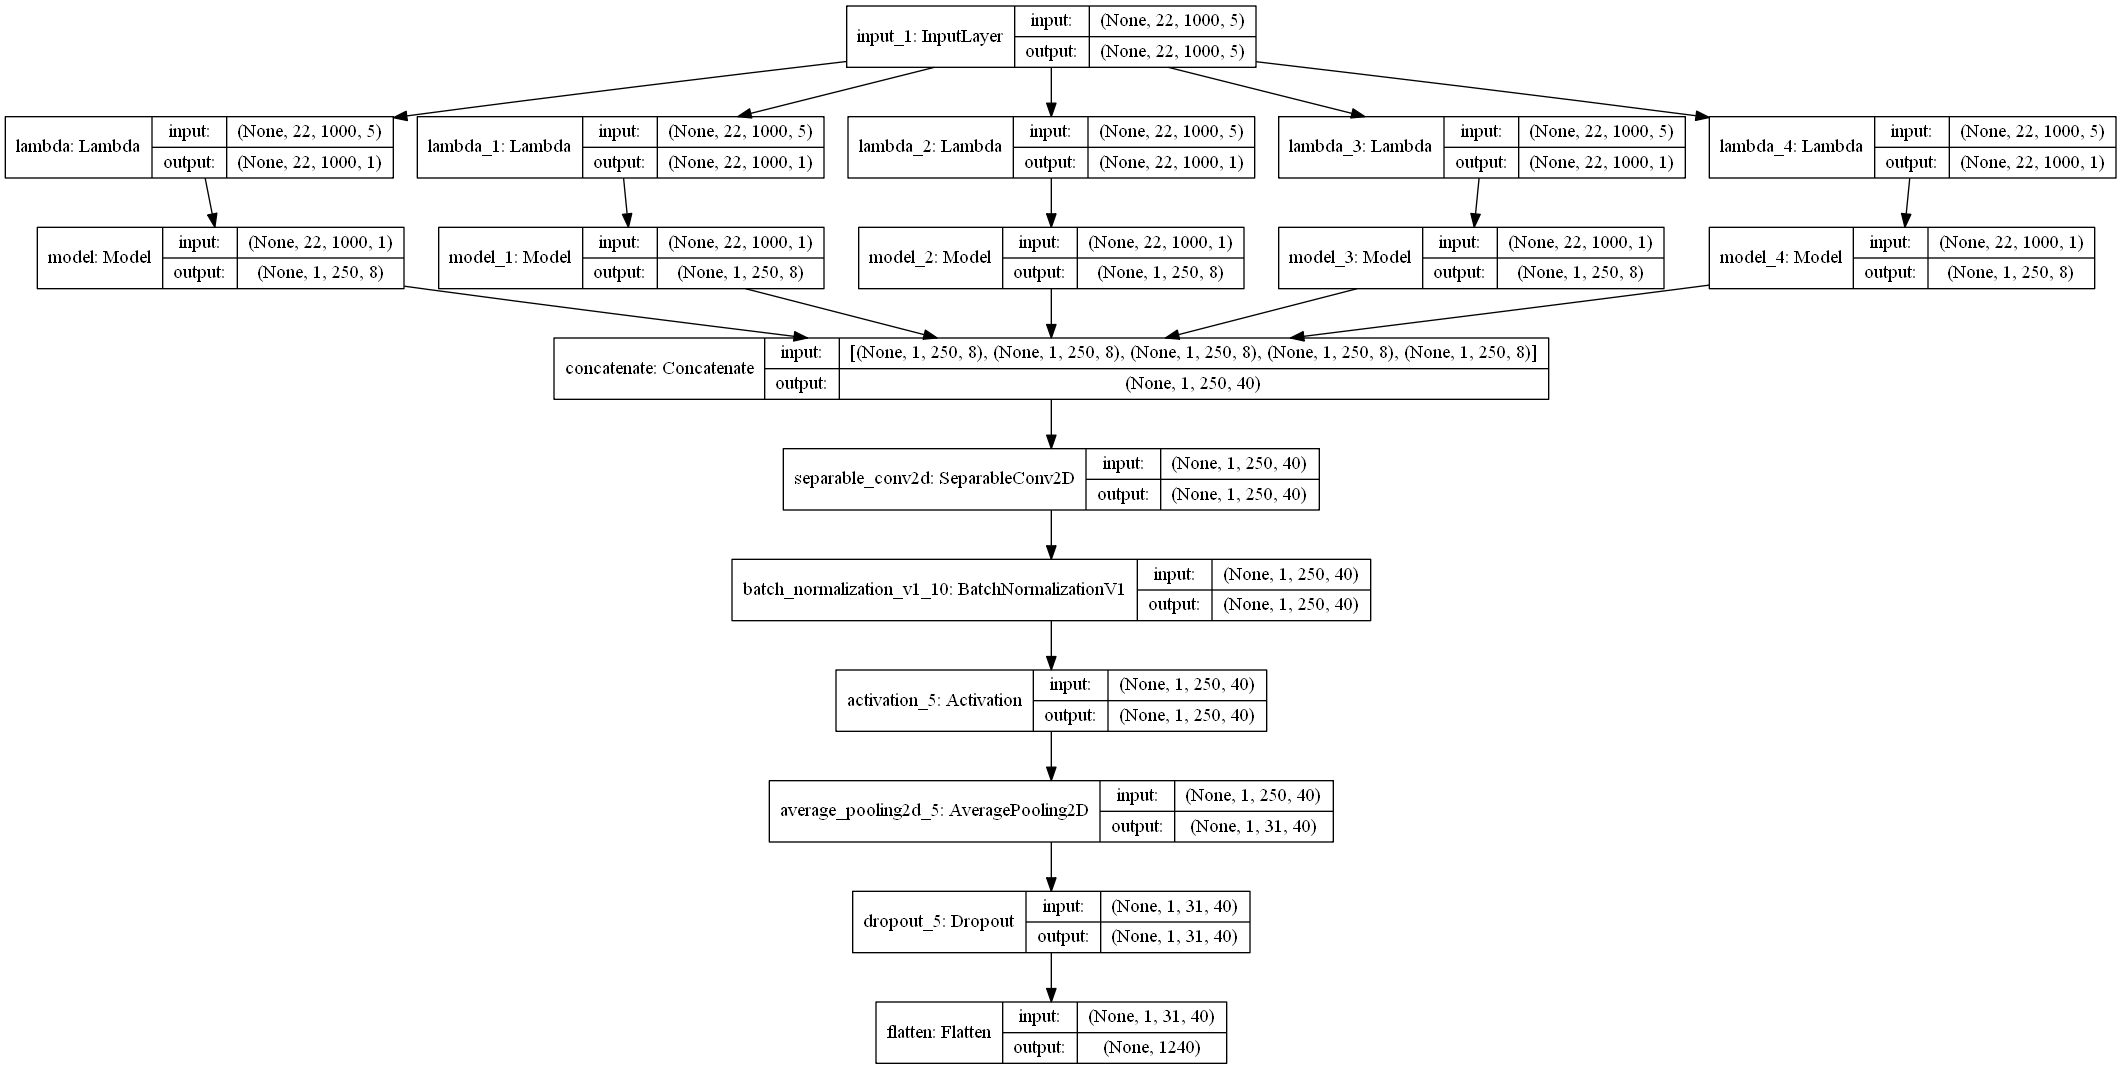
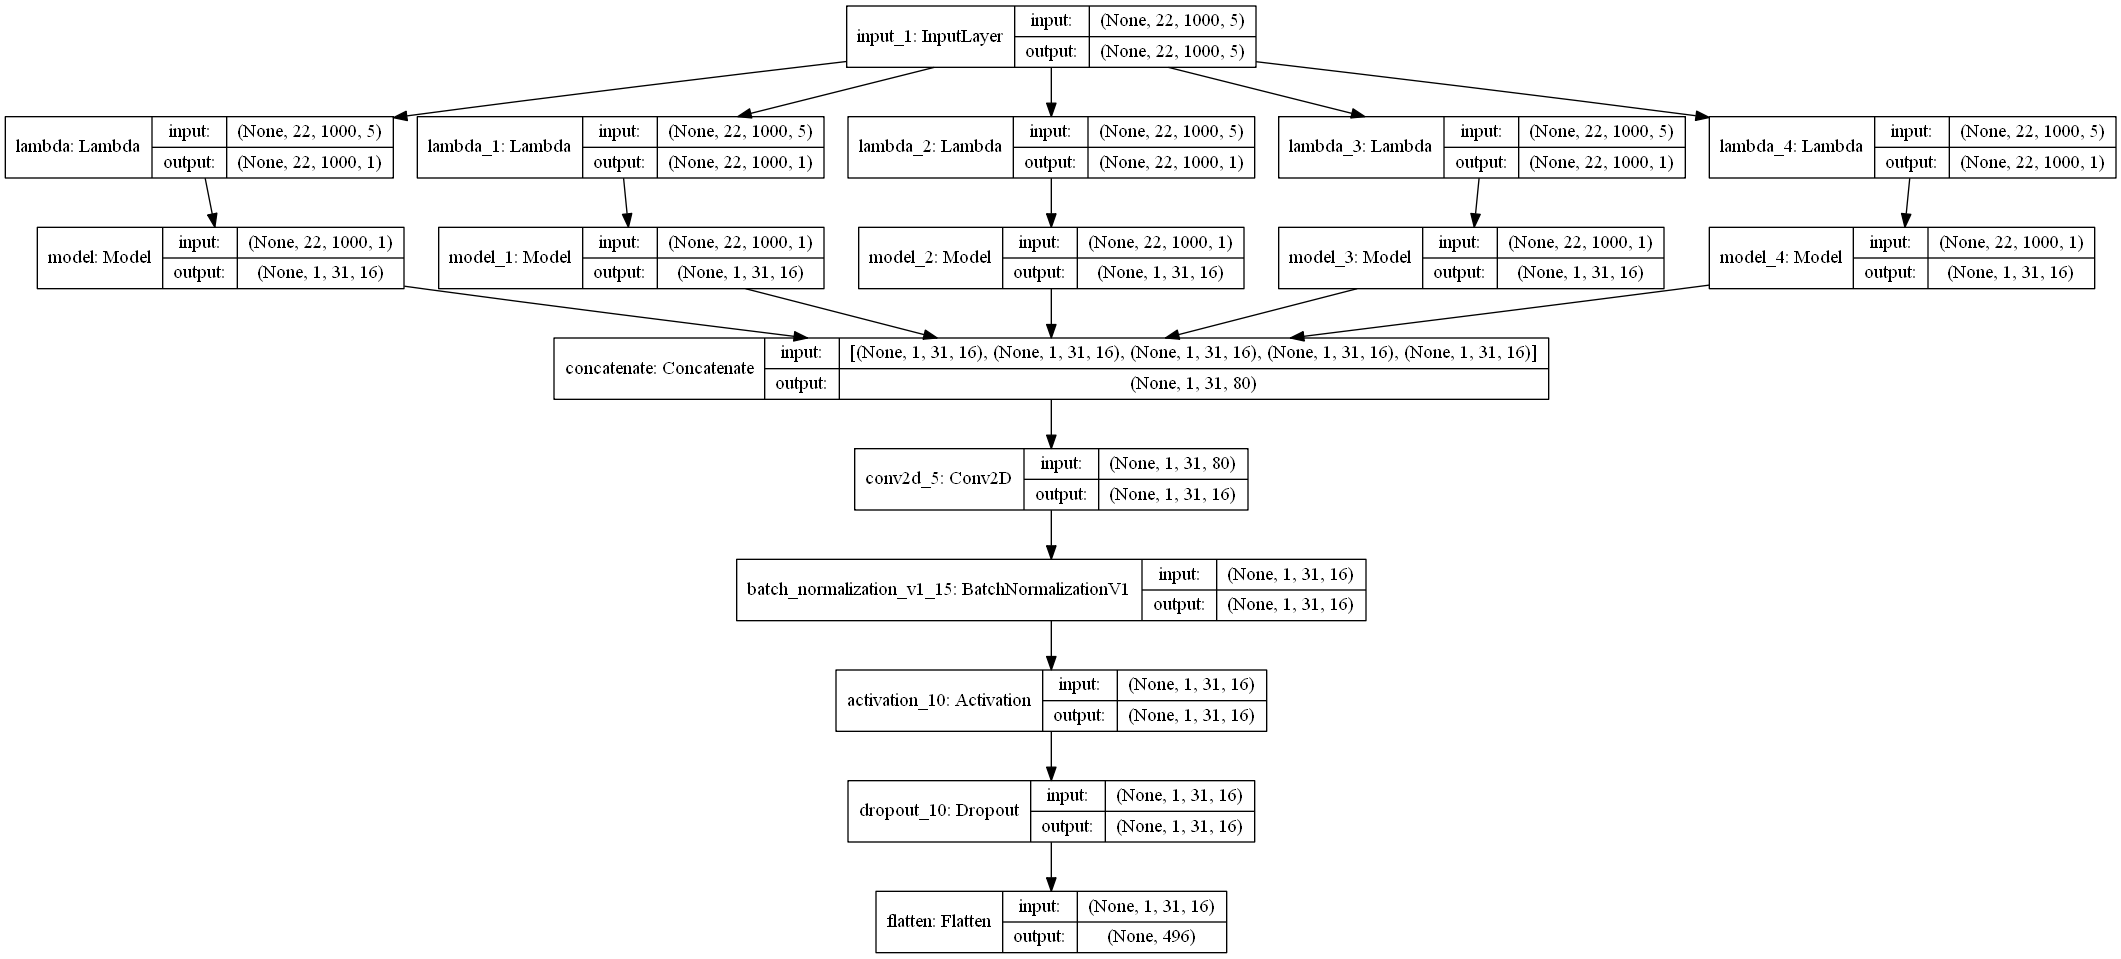
save

Changed region(s): [[0.0, 0.0, 1.0, 0.9979]]

diff --git a/core/utils.py b/core/utils.py
@@ -223,7 +223,7 @@ def load_or_generate_images(file_path, average_image=3):
     :param average_image: average_image 1 for CNN model only, 2 for multi-frame model 
                         sucn as lstm, 3 for both.
 
-    :return:            Tensor of size [window_size, samples, W, H, channel] containing generated
+    :return:            Tensor of size [n_trials, H, W, n_samples, n_colors] containing generated
                         images.
     """
     print('-'*100)
@@ -390,17 +390,33 @@ def interestingband(data, srate=250):
     Output:
         IBdata  : np.array, data after filter-bank, shapes as [n_trials, n_channels, n_samples, n_colors]
     '''
+    eps = 1e-9
     IBdata = []
-    b, a = signal.butter(4, [4/srate*2, 8/srate*2], 'bandpass')# theta
-    IBdata.append(signal.filtfilt(b, a, data, axis=-1))
-    b, a = signal.butter(4, [8/srate*2, 13/srate*2], 'bandpass')# alpha
-    IBdata.append(signal.filtfilt(b, a, data, axis=-1))
-    b, a = signal.butter(4, [14/srate*2, 30/srate*2], 'bandpass')# beta
-    IBdata.append(signal.filtfilt(b, a, data, axis=-1))
-    b, a = signal.butter(4, [30/srate*2, 40/srate*2], 'bandpass')# low gamma
-    IBdata.append(signal.filtfilt(b, a, data, axis=-1))
-    b, a = signal.butter(4, [71/srate*2, 91/srate*2], 'bandpass')# high gamma
-    IBdata.append(signal.filtfilt(b, a, data, axis=-1))
+    b, a = signal.butter(1, [4, 8], 'bandpass', fs=srate)# theta
+    z, p, k = signal.tf2zpk(b, a)
+    r = np.max(np.abs(p))
+    approx_impulse_len = int(np.ceil(np.log(eps) / np.log(r)))
+    IBdata.append(signal.filtfilt(b, a, data, axis=-1, method='gust', irlen=approx_impulse_len))
+    b, a = signal.butter(2, [8, 13], 'bandpass', fs=srate)# alpha
+    z, p, k = signal.tf2zpk(b, a)
+    r = np.max(np.abs(p))
+    approx_impulse_len = int(np.ceil(np.log(eps) / np.log(r)))
+    IBdata.append(signal.filtfilt(b, a, data, axis=-1, method='gust', irlen=approx_impulse_len))
+    b, a = signal.butter(3, [14, 30], 'bandpass', fs=srate)# beta
+    z, p, k = signal.tf2zpk(b, a)
+    r = np.max(np.abs(p))
+    approx_impulse_len = int(np.ceil(np.log(eps) / np.log(r)))
+    IBdata.append(signal.filtfilt(b, a, data, axis=-1, method='gust', irlen=approx_impulse_len))
+    b, a = signal.butter(4, [30, 40], 'bandpass', fs=srate)# low gamma
+    z, p, k = signal.tf2zpk(b, a)
+    r = np.max(np.abs(p))
+    approx_impulse_len = int(np.ceil(np.log(eps) / np.log(r)))
+    IBdata.append(signal.filtfilt(b, a, data, axis=-1, method='gust', irlen=approx_impulse_len))
+    b, a = signal.butter(4, [71, 91], 'bandpass', fs=srate)# high gamma
+    z, p, k = signal.tf2zpk(b, a)
+    r = np.max(np.abs(p))
+    approx_impulse_len = int(np.ceil(np.log(eps) / np.log(r)))
+    IBdata.append(signal.filtfilt(b, a, data, axis=-1, method='gust', irlen=approx_impulse_len))
     #now np.array(IBdata) shapes as[n_colors, n_trials, n_channels, n_samples]
     IBdata = np.swapaxes(np.array(IBdata), 0, 1)
     IBdata = np.swapaxes(IBdata, 1, 2)
@@ -425,7 +441,7 @@ def load_or_gen_interestingband_data(filepath, start=0, end=4, srate=250):
 
 
 if __name__=='__main__':
-    t = np.linspace(0, 1, 1000, False)  # 1 second
+    t = np.linspace(0, 1, 2000, False)  # 1 second
     sig = np.sin(2*np.pi*10*t) + np.sin(2*np.pi*20*t)    # 构造10hz和20hz的两个信号
     sig = np.array([[sig,sig],[sig,sig]])
     print(sig.shape)
@@ -435,8 +451,13 @@ if __name__=='__main__':
     ax1.axis([0, 1, -2, 2])
 
     
-    sos = signal.butter(10, 15, 'hp', fs=1000, output='sos')     #采样率为1000hz，带宽为15hz，输出sos
-    filtered = signal.sosfilt(sos, sig)             #将信号和通过滤波器作用，得到滤波以后的结果。在这里sos有点像冲击响应，这个函数有点像卷积的作用。
+    b, a = signal.butter(4, [14,30], 'bandpass', fs=2000, output='ba')     #采样率为1000hz，带宽为15hz，输出ba
+    z, p, k = signal.tf2zpk(b, a)
+    eps = 1e-9
+    r = np.max(np.abs(p))
+    approx_impulse_len = int(np.ceil(np.log(eps) / np.log(r)))
+    print(approx_impulse_len)
+    filtered = signal.filtfilt(b, a, sig, method='gust', irlen=approx_impulse_len)             #将信号和通过滤波器作用，得到滤波以后的结果。在这里sos有点像冲击响应，这个函数有点像卷积的作用。
     ax2.plot(t, filtered[0,0,:])
     ax2.set_title('After 15 Hz high-pass filter')
     ax2.axis([0, 1, -2, 2])

diff --git a/core/models.py b/core/models.py
@@ -46,6 +46,43 @@ def rawEEGConvModel(Chans, Samples, Colors, dropoutRate = 0.5,
         raise ValueError('dropoutType must be one of SpatialDropout2D, '
                          'SpatialDropout3D or Dropout, passed as a string.')
     # Learn from raw EEG signals
+    input_s = Input(shape=(Chans, Samples, Colors), dtype=dtype)
+    s = Conv2D(F1, (1, kernLength), padding = 'same', use_bias = False)(input_s)
+    s = BatchNormalization(axis = -1)(s)
+    s = DepthwiseConv2D((Chans, 1), use_bias = False, depth_multiplier = D,
+                        depthwise_constraint = max_norm(1.))(s)
+    s = BatchNormalization(axis = -1)(s)
+    s = Activation('elu')(s)
+    s = AveragePooling2D((1, 4))(s)
+    s = dropoutType(dropoutRate)(s)
+    s = SeparableConv2D(F2, (1, 16), padding = 'same', use_bias = False)(s)
+    s = BatchNormalization(axis = -1)(s)
+    s = Activation('elu')(s)
+    s = AveragePooling2D((1, 8))(s)
+    s = dropoutType(dropoutRate)(s)
+    flatten = Flatten()(con)
+
+    return Model(inputs=input_s,outputs=flatten)
+
+
+def _old_rawEEGConvModel(Chans, Samples, Colors, dropoutRate = 0.5,
+                         kernLength = 64, F1 = 8, D = 2, F2 = 16, 
+                         dtype = tf.float32, dropoutType = 'Dropout'):
+    """
+    for weight reusing
+
+    see BIEEGConvNet
+    """
+    if dropoutType == 'SpatialDropout2D':
+        dropoutType = SpatialDropout2D
+    elif dropoutType == 'SpatialDropout3D':
+        dropoutType = SpatialDropout3D
+    elif dropoutType == 'Dropout':
+        dropoutType = Dropout
+    else:
+        raise ValueError('dropoutType must be one of SpatialDropout2D, '
+                         'SpatialDropout3D or Dropout, passed as a string.')
+    # Learn from raw EEG signals
     l_m = []
     input_s = Input(shape=(Chans, Samples, Colors), dtype=dtype)
     for i in range(Colors):
@@ -58,11 +95,11 @@ def rawEEGConvModel(Chans, Samples, Colors, dropoutRate = 0.5,
         s = Activation('elu')(s)
         s = AveragePooling2D((1, 4))(s)
         s = dropoutType(dropoutRate)(s)
-        #s = SeparableConv2D(F2, (1, 16), padding = 'same', use_bias = False)(s)
-        #s = BatchNormalization(axis = -1)(s)
-        #s = Activation('elu')(s)
-        #s = AveragePooling2D((1, 8))(s)
-        #s = dropoutType(dropoutRate)(s)
+        s = SeparableConv2D(F2, (1, 16), padding = 'same', use_bias = False)(s)
+        s = BatchNormalization(axis = -1)(s)
+        s = Activation('elu')(s)
+        s = AveragePooling2D((1, 8))(s)
+        s = dropoutType(dropoutRate)(s)
         model = Model(inputs=input,outputs=s)
         l_m.append(model)
     l_s = []
@@ -80,12 +117,13 @@ def rawEEGConvModel(Chans, Samples, Colors, dropoutRate = 0.5,
     #                      depthwise_constraint = max_norm(1.), data_format = 'channels_first')(con)
     #con = BatchNormalization(axis = 1)(con)
     #con = Activation('elu')(con)
-    #con = MaxPooling2D((1, 4), data_format = 'channels_first')(con)
+    #con = AveragePooling2D((1, F2), data_format = 'channels_first')(con)
     #con = dropoutType(dropoutRate)(con)
-    con = SeparableConv2D(5*F2, (1, 16), padding = 'same', use_bias = False)(con)
+    con = Conv2D(F2, (1, 1), padding = 'same', use_bias = False)(con)
     con = BatchNormalization(axis = -1)(con)
     con = Activation('elu')(con)
-    con = AveragePooling2D((1, 8))(con)
+    #con = AveragePooling2D((1, 2))(con)
+    #con = AveragePooling2D((1, 5), data_format = 'channels_first')(con)
     con = dropoutType(dropoutRate)(con)
     flatten = Flatten()(con)
 
@@ -131,7 +169,7 @@ def graphEEGConvModel(Colors, Samples, H, W, dropoutRate = 0.5,
     return Model(inputs=input_g,outputs=flatten)
 
 
-def rawEEGConvNet(n_classes, model, Colors=16, Chans=22, 
+def rawEEGConvNet(n_classes, model, Colors=1, Chans=22, 
                   Samples=1000, norm_rate=0.25, dtype=tf.float32):
     # Learn from raw EEG signals
     input_s = Input(shape=(Chans, Samples, Colors), dtype=dtype)

diff --git a/core/train.py b/core/train.py
@@ -13,7 +13,7 @@ from tensorflow.python.keras.callbacks import ModelCheckpoint
 
 def train_EEGNet(n_classes, Chans=22, start=0, end=4, srate=250, 
                  batch_size=10, epochs=500, verbose=2, patience=100, 
-                 drawflag=False, restate=True, prep=True):
+                 drawflag=False, restate=True, prep=False):
     Samples = (end-start)*srate
     if prep:
         pp = '_pp'
@@ -93,22 +93,22 @@ def train_EEGNet(n_classes, Chans=22, start=0, end=4, srate=250,
         plt.show()
 
 
-def train_rawEEGConvNet(n_classes, Colors=5, Chans=22, start=0, end=4, 
+def train_rawEEGConvNet(n_classes, Chans=22, start=0, end=4, Colors=1,
                         srate=250, batch_size=10, epochs=500, verbose=2, 
                         patience=100, drawflag=False, restate=True, 
-                        prep=True):
+                        prep=False):
     Samples = (end-start)*srate
     if prep:
         pp = '_pp'
     else:
         pp = ''
         
-    model = rawEEGConvModel(Colors=Colors,Chans=Chans,Samples=Samples)
+    model = rawEEGConvModel(Chans=Chans,Samples=Samples,Colors=Colors)
     model.summary()
     # export graph of the model
     tf.keras.utils.plot_model(model, 'rawEEGConvModel.png', show_shapes=True)
 
-    model = rawEEGConvNet(n_classes,model,Colors=Colors,Chans=Chans,Samples=Samples)
+    model = rawEEGConvNet(n_classes,model,Chans=Chans,Samples=Samples,Colors=Colors)
     model.compile(optimizer=tf.keras.optimizers.Adam(1e-3),
                   loss=tf.keras.losses.sparse_categorical_crossentropy,
                   metrics=['accuracy'])

diff --git a/BCIIV2a.py b/BCIIV2a.py
@@ -18,6 +18,6 @@ srate = 250
 K.set_image_data_format('channels_last')
 
 if __name__=='__main__':
-    train_EEGNet(4, srate=srate, prep=False)
-    #train_rawEEGConvNet(4, srate=srate, prep=False)
+    #train_EEGNet(4, srate=srate, prep=False)
+    train_rawEEGConvNet(4, srate=srate, Colors=5)
     pass

diff --git a/model/README.MD b/model/README.MD
@@ -1,1 +1,9 @@
-For model saving 
+For model saving.
+	*.h5 is saved model for especial subject.
+	*.npy is saved history datas during model training.
+
+Introduction of existed saved models:
+	2019_9_27_10_10_30: EEGNet(8,2) with 4-38Hz filtered data
+	2019_9_27_10_29_32: EEGNet(8,2) with unfilterd data
+	2019_9_27_11_32_19: EEGNet(16,2) with unfilterd data
+	2019_9_27_11_53_18: EEGNet(8,4) with unfilterd data
